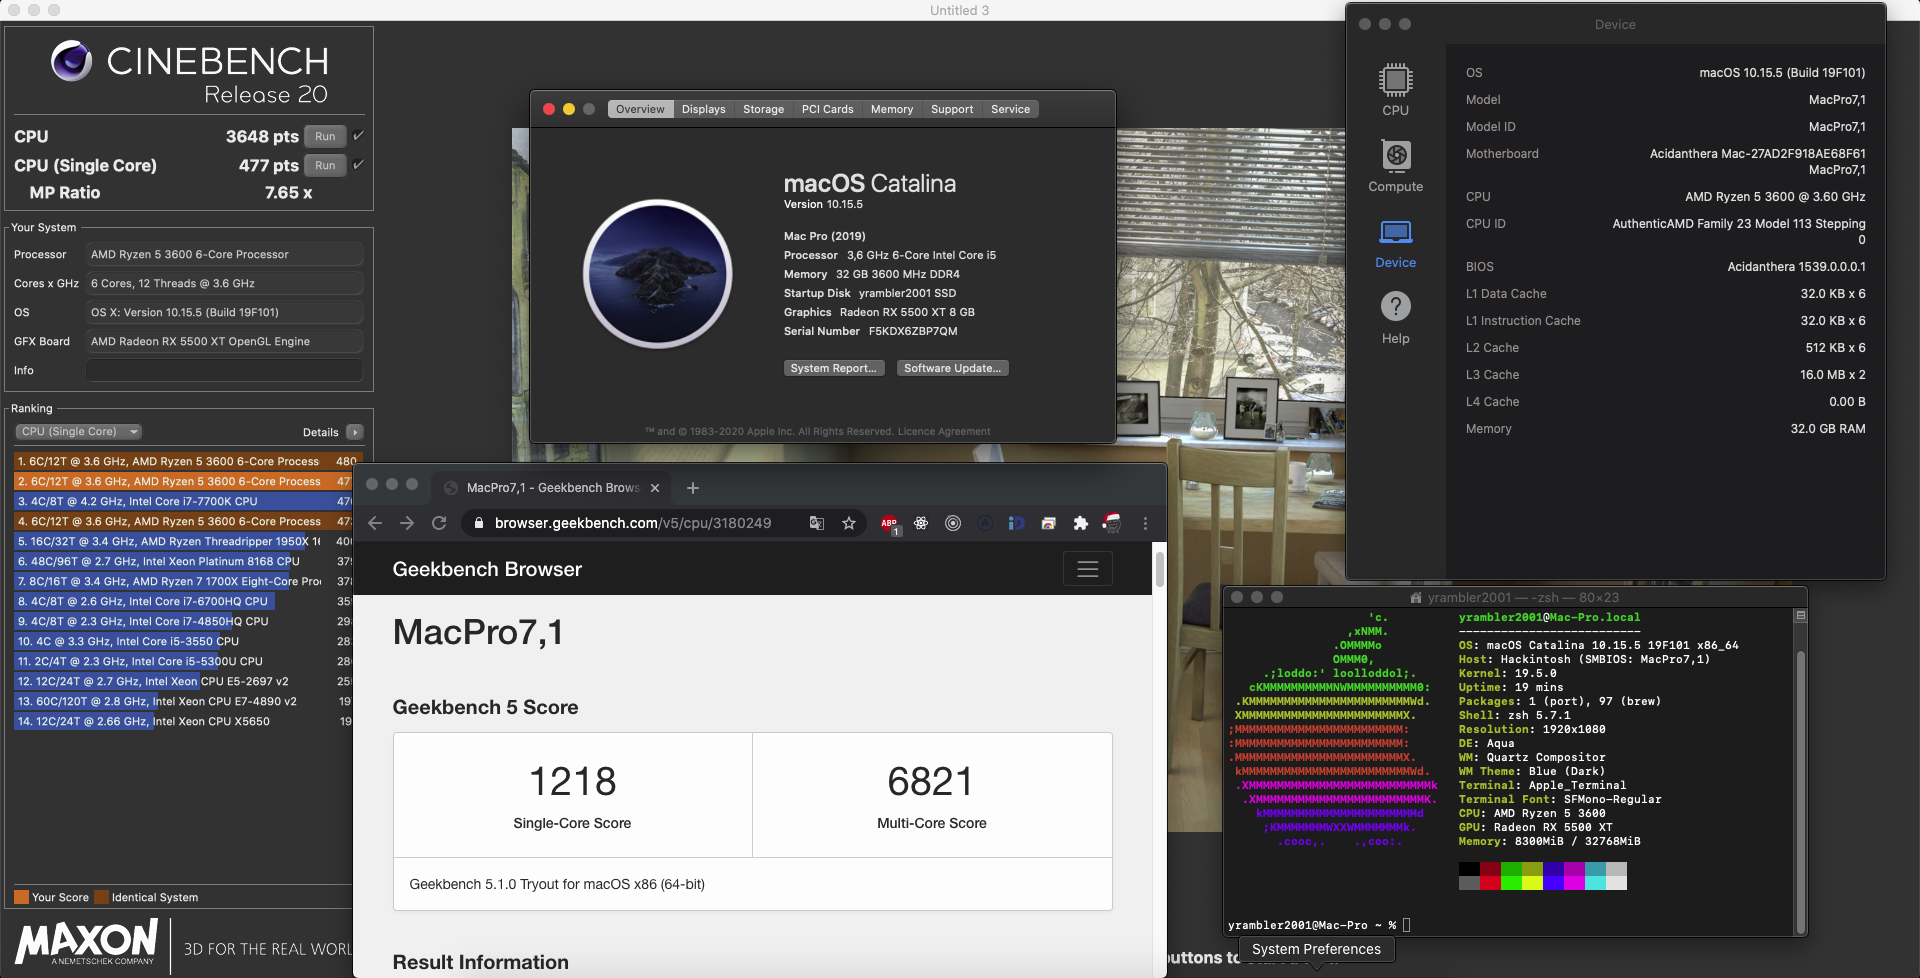
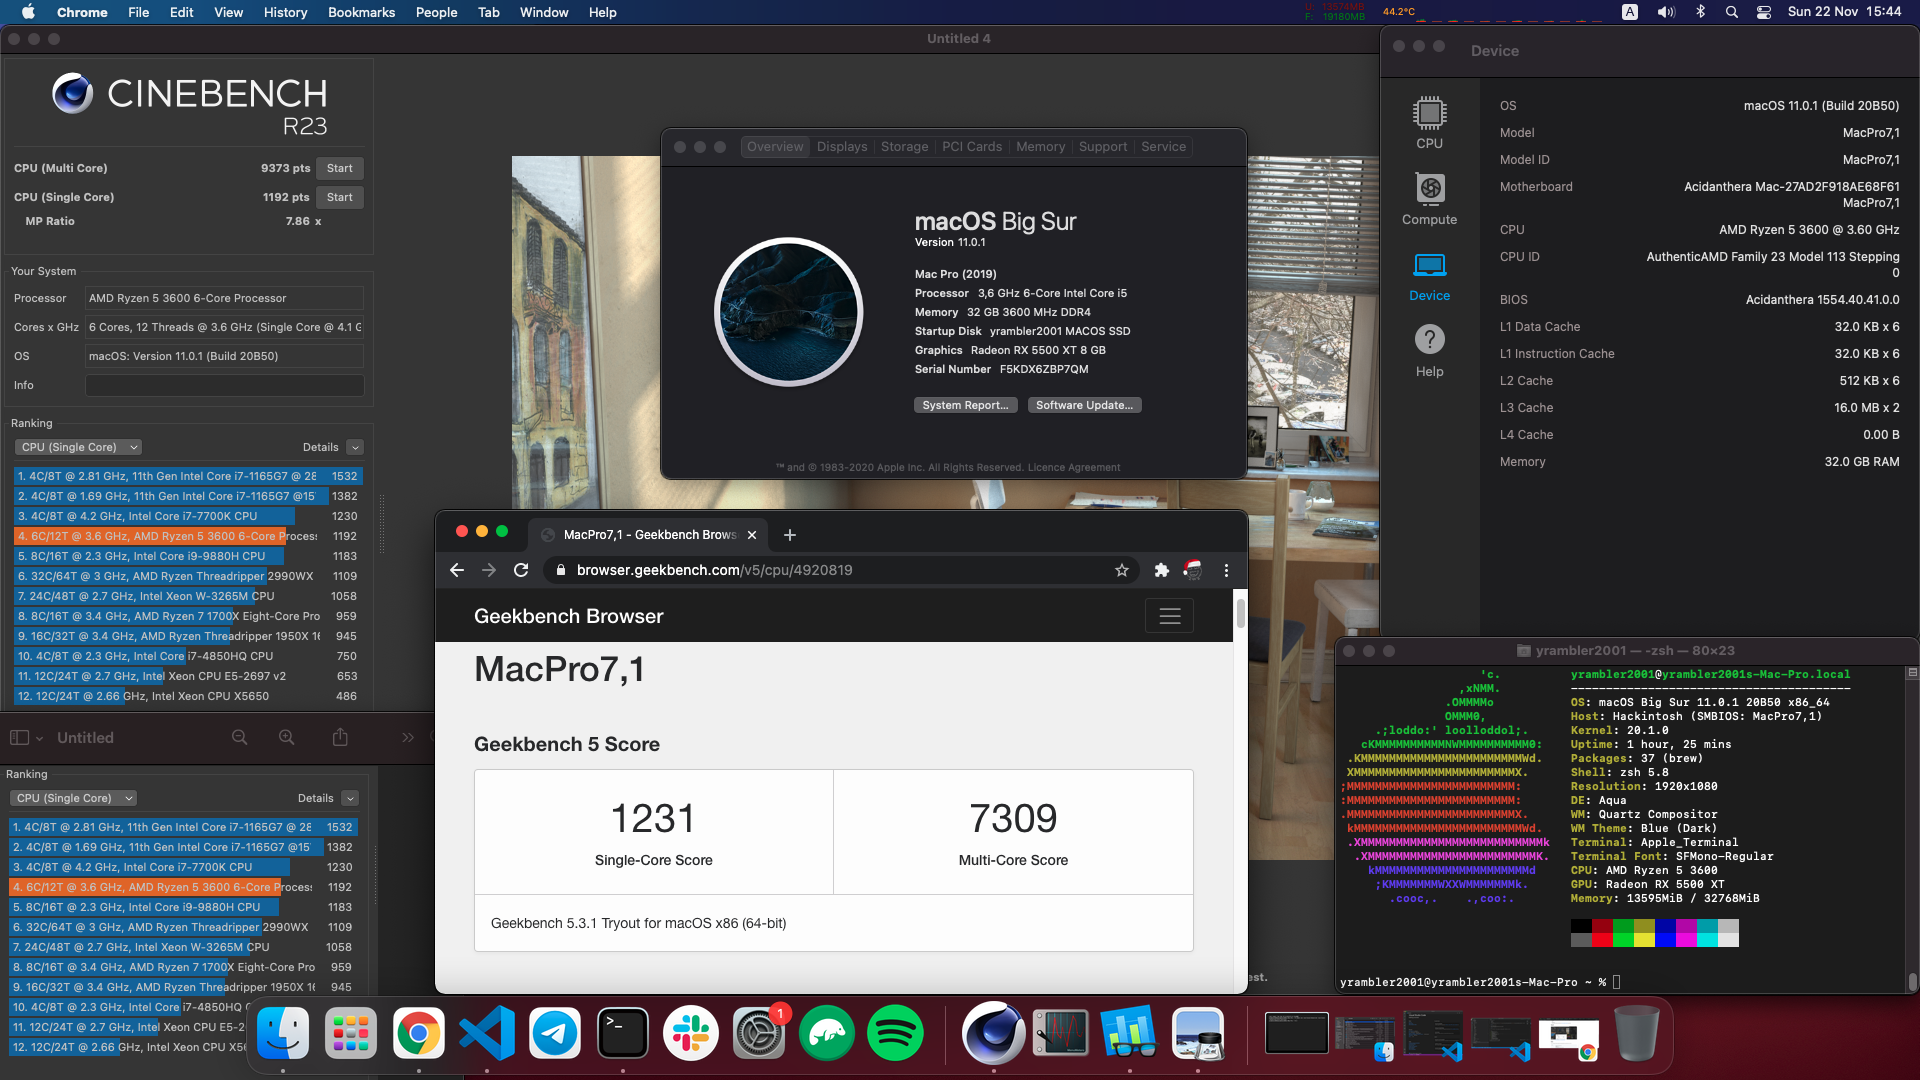
updated info about big sur

diff --git a/readme.md b/readme.md
@@ -1,5 +1,5 @@
 # Hackintosh-AMD-Ryzen-3600-AsRock-X570-PHANTOM-GAMING-4-Gigabyte-RX-5500-XT-OC
-Big Sur
+Big Sur (Catalina is on 'catalina' branch)
 # Info PC
 
 ```
@@ -24,14 +24,16 @@ Cooler: DeepCool GAMMAXX 300 $20
 - Audio
 - Ethernet
 - Bluetooth
-- VGA
+- GPU
 - All USB ports
 - Switch between Windows and MacOS with [rEFInd bootloader](https://github.com/agners/rEFInd) [(website)](https://www.rodsbooks.com/refind/) using mouse
 
 # Result
 
 ![Info](/images/info.png)
-Geekbench 5 https://browser.geekbench.com/v5/cpu/3180249
+Geekbench 5 https://browser.geekbench.com/v5/cpu/4920819
+Geekbench 5 Metal https://browser.geekbench.com/v5/compute/1906257
+Geekbench 5 OpenCL https://browser.geekbench.com/v5/compute/1906247
 
 # Note
 
@@ -41,8 +43,12 @@ The file config.plist. Please change MLB, SystemSerialNumber, SystemUUID into yo
 <dict>
 		<key>AdviseWindows</key>
 		<false/>
+		<key>SystemMemoryStatus</key>
+		<string>Auto</string>
 		<key>MLB</key>
 		<string>xxxxxxxxxxxxxxx</string>
+		<key>ProcessorType</key>
+		<integer>0</integer>
 		<key>ROM</key>
 		<data>ESIzAAAA</data>
 		<key>SpoofVendor</key>
